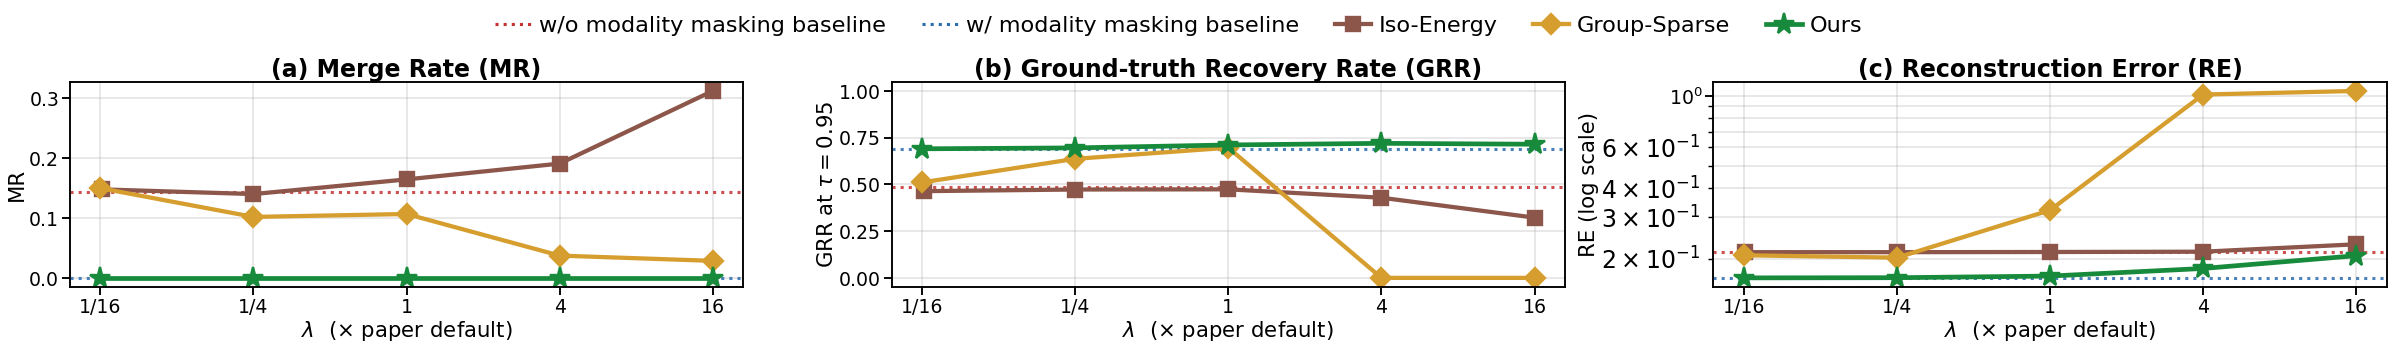
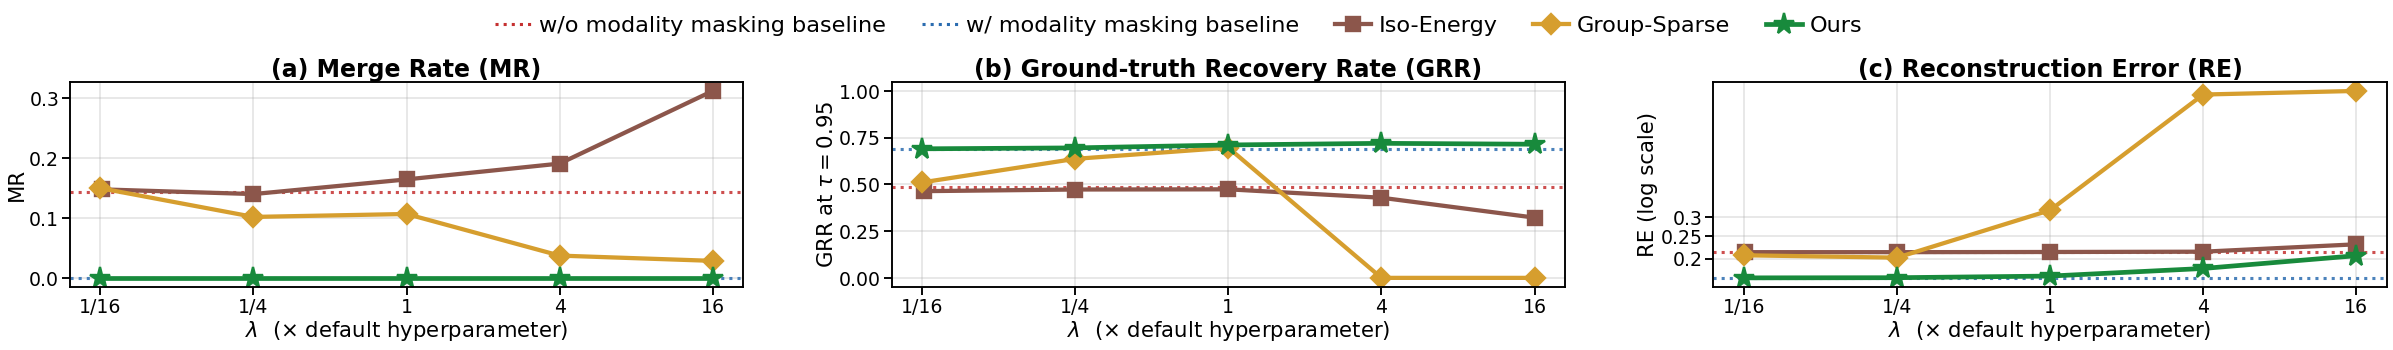
fig1/fig2: scalar y-ticks on log RE; fig2 script + 'default hyperparameter' x-label

diff --git a/scripts/plot_fig2_lambda_sweep.py b/scripts/plot_fig2_lambda_sweep.py
@@ -1,0 +1,182 @@
+#!/usr/bin/env python3
+"""Plot Figure 2 (3-panel: MR, GRR(τ=0.95), Recon Error) for λ sweep.
+
+Compares Iso-Energy / Group-Sparse / Ours across λ (expressed as multiplier
+of each method's paper default), with w/o and w/ modality masking baselines
+as horizontal reference lines. Merge Rate uses MR_geom (vector-cosine basis),
+computed offline from saved SAE decoders.
+
+Usage:
+    python scripts/plot_fig2_lambda_sweep.py \
+        --root outputs/theorem2_followup_15 \
+        --out  outputs/theorem2_followup_15/fig2_beta_sweep.png
+"""
+
+import argparse
+import glob
+import json
+import os
+import re
+from pathlib import Path
+
+import matplotlib
+matplotlib.use("Agg")
+import matplotlib.pyplot as plt
+import numpy as np
+from matplotlib.lines import Line2D
+from matplotlib.ticker import FixedLocator, FuncFormatter, MultipleLocator, NullFormatter
+
+
+# ---------------- style constants ----------------
+C_IA, C_GS, C_OURS = "#8c564b", "#d69e2e", "#188a3c"
+C_1R, C_2R = "#c53030", "#2b6cb0"
+
+DEFAULTS = {"IA": 0.03, "GS": 0.05, "ours": 2.0}
+
+PANELS = [
+    # (metric_key,              ylabel,                title,                                     ylim,          yticks_step, ylog)
+    ("MR_geom",                 "MR",                   "(a) Merge Rate (MR)",                    None,          None,        False),
+    ("img_mgt_shared_tau0.95",  r"GRR at $\tau=0.95$",  "(b) Ground-truth Recovery Rate (GRR)",   (-0.05, 1.05), None,        False),
+    ("avg_eval_loss",           "RE (log scale)",       "(c) Reconstruction Error (RE)",          None,          None,        True),
+]
+
+
+def compute_mr_geom(npz_path: str, tau: float = 0.95) -> float:
+    d = np.load(npz_path)
+    w_img = d["w_dec_img"].astype(np.float64)
+    w_txt = d["w_dec_txt"].astype(np.float64)
+    phi = d["phi_S"].astype(np.float64).T
+    psi = d["psi_S"].astype(np.float64).T
+    w_img /= np.linalg.norm(w_img, axis=1, keepdims=True).clip(1e-12)
+    w_txt /= np.linalg.norm(w_txt, axis=1, keepdims=True).clip(1e-12)
+    phi   /= np.linalg.norm(phi,   axis=1, keepdims=True).clip(1e-12)
+    psi   /= np.linalg.norm(psi,   axis=1, keepdims=True).clip(1e-12)
+    top_img = (w_img @ phi.T).argmax(axis=0)
+    top_txt = (w_txt @ psi.T).argmax(axis=0)
+    return float(((w_img[top_img] * w_txt[top_txt]).sum(axis=1) > tau).mean())
+
+
+def _get_metric(j: dict, mk: str, metric: str):
+    return j["sweep_results"][0]["aggregate"].get(f"{mk}/{metric}_mean")
+
+
+def _find_npz(root: str, run_tag: str, method_substr: str) -> str:
+    runs_dir = os.path.join(root, "runs")
+    for run in os.listdir(runs_dir):
+        if run_tag not in run:
+            continue
+        pdir = os.path.join(runs_dir, run, "params")
+        if not os.path.isdir(pdir):
+            continue
+        for f in os.listdir(pdir):
+            if method_substr in f:
+                return os.path.join(pdir, f)
+    raise FileNotFoundError(f"no npz matching {run_tag}/{method_substr} under {runs_dir}")
+
+
+def _collect(root: str, method_tag: str, method_id_template: str, npz_method_substr: str):
+    paths = sorted(glob.glob(os.path.join(root, f"runs/*{method_tag}*/result.json")))
+    items = []
+    for p in paths:
+        m = re.search(f"{method_tag}([\\d.eE+-]+)", p)
+        if not m:
+            continue
+        beta = float(m.group(1))
+        j = json.load(open(p))
+        mk = method_id_template.format(beta) if "ours" in method_id_template else method_id_template
+        run_dir = os.path.dirname(p)
+        pdir = os.path.join(run_dir, "params")
+        npz_path = None
+        if os.path.isdir(pdir):
+            for f in os.listdir(pdir):
+                if npz_method_substr in f:
+                    npz_path = os.path.join(pdir, f)
+                    break
+        items.append((beta, {
+            "avg_eval_loss": _get_metric(j, mk, "avg_eval_loss"),
+            "img_mgt_shared_tau0.95": _get_metric(j, mk, "img_mgt_shared_tau0.95"),
+            "MR_geom": compute_mr_geom(npz_path) if npz_path else None,
+        }))
+    items.sort()
+    return items
+
+
+def make_fig2(root: str, out_path: str):
+    # 1R / 2R baselines
+    b_p = sorted(glob.glob(os.path.join(root, "runs/*1R_2R*/result.json")))[0]
+    b_j = json.load(open(b_p))
+    v_1R = {m: _get_metric(b_j, "single_recon", m) for m in ["avg_eval_loss", "img_mgt_shared_tau0.95"]}
+    v_2R = {m: _get_metric(b_j, "two_recon",    m) for m in ["avg_eval_loss", "img_mgt_shared_tau0.95"]}
+    v_1R["MR_geom"] = compute_mr_geom(_find_npz(root, "1R_2R", "single_recon"))
+    v_2R["MR_geom"] = compute_mr_geom(_find_npz(root, "1R_2R", "two_recon"))
+
+    ia_data   = _collect(root, "IA_beta", "iso_align",    "iso_align")
+    gs_data   = _collect(root, "GS_lam",  "group_sparse", "group_sparse")
+    ours_data = _collect(root, "ours_lam", "ours::lam{}_mS1024_k6_normglobal", "ours")
+
+    to_mult = lambda items, d: [(b / d, r) for b, r in items]
+    ia_m   = to_mult(ia_data,   DEFAULTS["IA"])
+    gs_m   = to_mult(gs_data,   DEFAULTS["GS"])
+    ours_m = to_mult(ours_data, DEFAULTS["ours"])
+
+    fig, axes = plt.subplots(1, 3, figsize=(14.5, 2.16))
+    for ax, (metric, ylab, title, ylim, ystep, ylog) in zip(axes, PANELS):
+        ax.axhline(v_1R[metric], color=C_1R, ls=":", lw=1.3, alpha=0.85)
+        ax.axhline(v_2R[metric], color=C_2R, ls=":", lw=1.3, alpha=0.85)
+        ax.plot([m for m, _ in ia_m],   [r[metric] for _, r in ia_m],   "-s", color=C_IA,   lw=1.8, ms=6)
+        ax.plot([m for m, _ in gs_m],   [r[metric] for _, r in gs_m],   "-D", color=C_GS,   lw=1.8, ms=6)
+        ax.plot([m for m, _ in ours_m], [r[metric] for _, r in ours_m], "-*", color=C_OURS, lw=2.0, ms=9)
+
+        ax.set_xscale("log", base=2)
+        ax.set_xticks([1/16, 1/4, 1, 4, 16])
+        ax.set_xticklabels(["1/16", "1/4", "1", "4", "16"])
+        ax.set_xlabel(r"$\lambda$  ($\times$ default hyperparameter)", fontsize=9, labelpad=1)
+        ax.set_ylabel(ylab, fontsize=9, labelpad=1)
+        ax.set_title(title, fontsize=10, fontweight="bold", pad=2)
+        if ylim:
+            ax.set_ylim(*ylim)
+        if ystep:
+            ax.yaxis.set_major_locator(MultipleLocator(ystep))
+        if ylog:
+            ax.set_yscale("log")
+            y_ticks = [0.15, 0.2, 0.25, 0.3]
+            ax.yaxis.set_major_locator(FixedLocator(y_ticks))
+            ax.yaxis.set_minor_locator(FixedLocator([]))
+            ax.yaxis.set_major_formatter(FuncFormatter(lambda v, _: f"{v:g}"))
+            ax.yaxis.set_minor_formatter(NullFormatter())
+        ax.grid(alpha=0.3, which="both")
+        ax.tick_params(labelsize=8, pad=1)
+
+    handles = [
+        Line2D([0], [0], color=C_1R,   ls=":",     lw=1.3, label="w/o modality masking baseline"),
+        Line2D([0], [0], color=C_2R,   ls=":",     lw=1.3, label="w/ modality masking baseline"),
+        Line2D([0], [0], color=C_IA,   marker="s", lw=1.8, ms=6, label="Iso-Energy"),
+        Line2D([0], [0], color=C_GS,   marker="D", lw=1.8, ms=6, label="Group-Sparse"),
+        Line2D([0], [0], color=C_OURS, marker="*", lw=2.0, ms=9, label="Ours"),
+    ]
+    fig.legend(
+        handles=handles, loc="upper center",
+        bbox_to_anchor=(0.5, 1.005),
+        ncol=5, frameon=False, fontsize=9.5,
+        handlelength=1.6, columnspacing=1.6, handletextpad=0.35,
+    )
+    plt.subplots_adjust(top=0.77, bottom=0.21, left=0.05, right=0.99, wspace=0.22)
+
+    Path(out_path).parent.mkdir(parents=True, exist_ok=True)
+    plt.savefig(out_path, dpi=170, bbox_inches="tight", facecolor="white", pad_inches=0.04)
+    print(f"saved {out_path}")
+    plt.close()
+
+
+def main():
+    parser = argparse.ArgumentParser()
+    parser.add_argument("--root", type=str, default="outputs/theorem2_followup_15",
+                        help="Sweep output root containing runs/ subdir")
+    parser.add_argument("--out",  type=str, default="outputs/theorem2_followup_15/fig2_beta_sweep.png",
+                        help="Output PNG path")
+    args = parser.parse_args()
+    make_fig2(args.root, args.out)
+
+
+if __name__ == "__main__":
+    main()

diff --git a/scripts/plot_fig1_three_panels.py b/scripts/plot_fig1_three_panels.py
@@ -17,7 +17,7 @@ from pathlib import Path
 import matplotlib
 matplotlib.use("Agg")
 import matplotlib.pyplot as plt
-from matplotlib.ticker import MultipleLocator
+from matplotlib.ticker import FixedLocator, FuncFormatter, MultipleLocator, NullFormatter
 
 
 # ---------------- style constants ----------------
@@ -70,6 +70,11 @@ def make_fig1(json_path: str, out_path: str, alphas_target=(0.2, 0.3, 0.4, 0.5, 
             ax.yaxis.set_major_locator(MultipleLocator(ystep))
         if metric == "avg_eval_loss":
             ax.set_yscale("log")
+            y_ticks = [0.15, 0.2, 0.25, 0.3, 0.4]
+            ax.yaxis.set_major_locator(FixedLocator(y_ticks))
+            ax.yaxis.set_minor_locator(FixedLocator([]))
+            ax.yaxis.set_major_formatter(FuncFormatter(lambda v, _: f"{v:g}"))
+            ax.yaxis.set_minor_formatter(NullFormatter())
         ax.grid(alpha=0.3, which="both")
 
     fig.legend(
